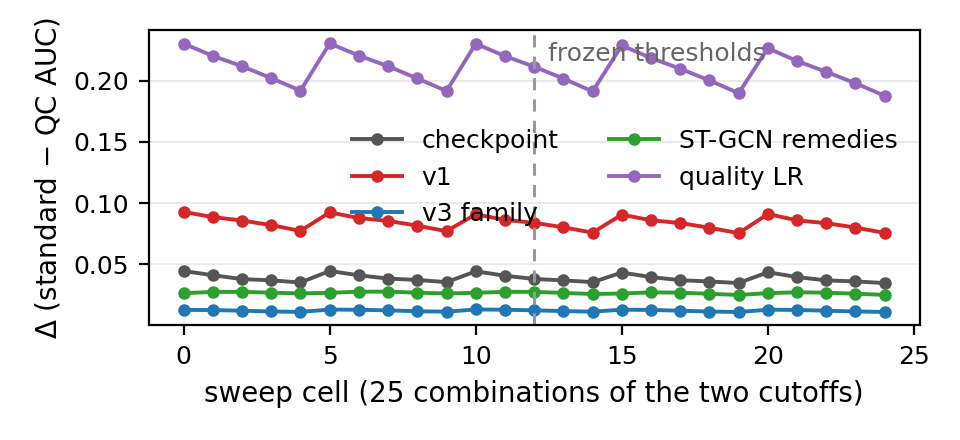
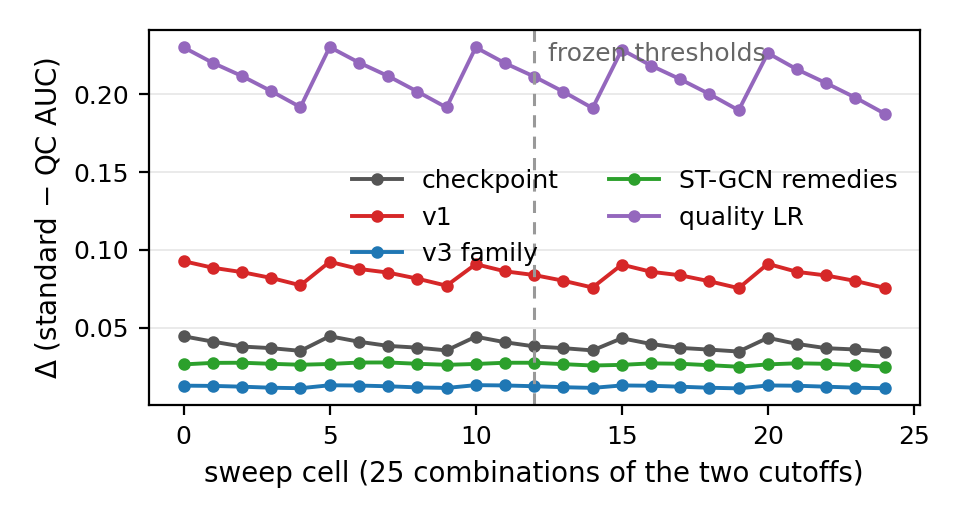
Grow confound and sweep figures back to fill the last body page

diff --git a/results/make_paper_figures.py b/results/make_paper_figures.py
@@ -173,7 +173,7 @@ non = [r for r in te if r["binary_label"] == 0 and 250 <= r["n_frames"] <= 400]
 smm_ex = min(smm, key=lambda r: abs(r["q_lowconf"] - 0.25))
 non_ex = min(non, key=lambda r: abs(r["q_lowconf"] - 0.55))
 
-fig_, axes = plt.subplots(1, 2, figsize=(4.8, 2.1), sharey=True)
+fig_, axes = plt.subplots(1, 2, figsize=(4.8, 2.35), sharey=True)
 for ax, r, title in [(axes[0], smm_ex, "SMM segment"),
                      (axes[1], non_ex, "non-SMM segment")]:
     arr = ds.load_segment(r)

diff --git a/revision/c1_delta_controls.py b/revision/c1_delta_controls.py
@@ -194,7 +194,7 @@ def main():
     import matplotlib
     matplotlib.use("Agg")
     import matplotlib.pyplot as plt
-    fig, ax = plt.subplots(figsize=(4.8, 2.2))
+    fig, ax = plt.subplots(figsize=(4.8, 2.6))
     xs = np.arange(len(sweep_records))
     frozen_cell = [i for i, (fm, am, _, _) in enumerate(sweep_records)
                    if fm == 0.10 and am == 0.30][0]
